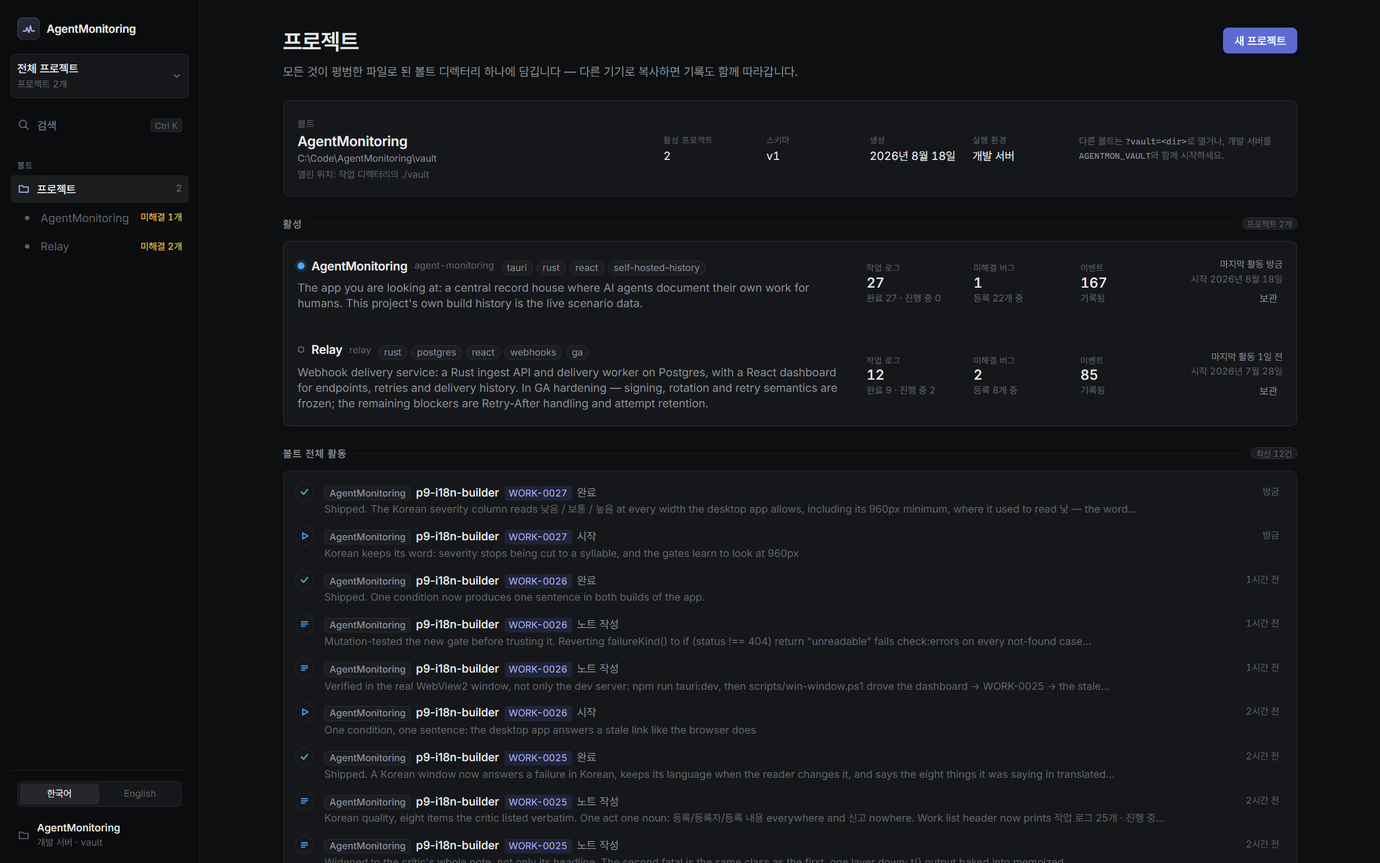
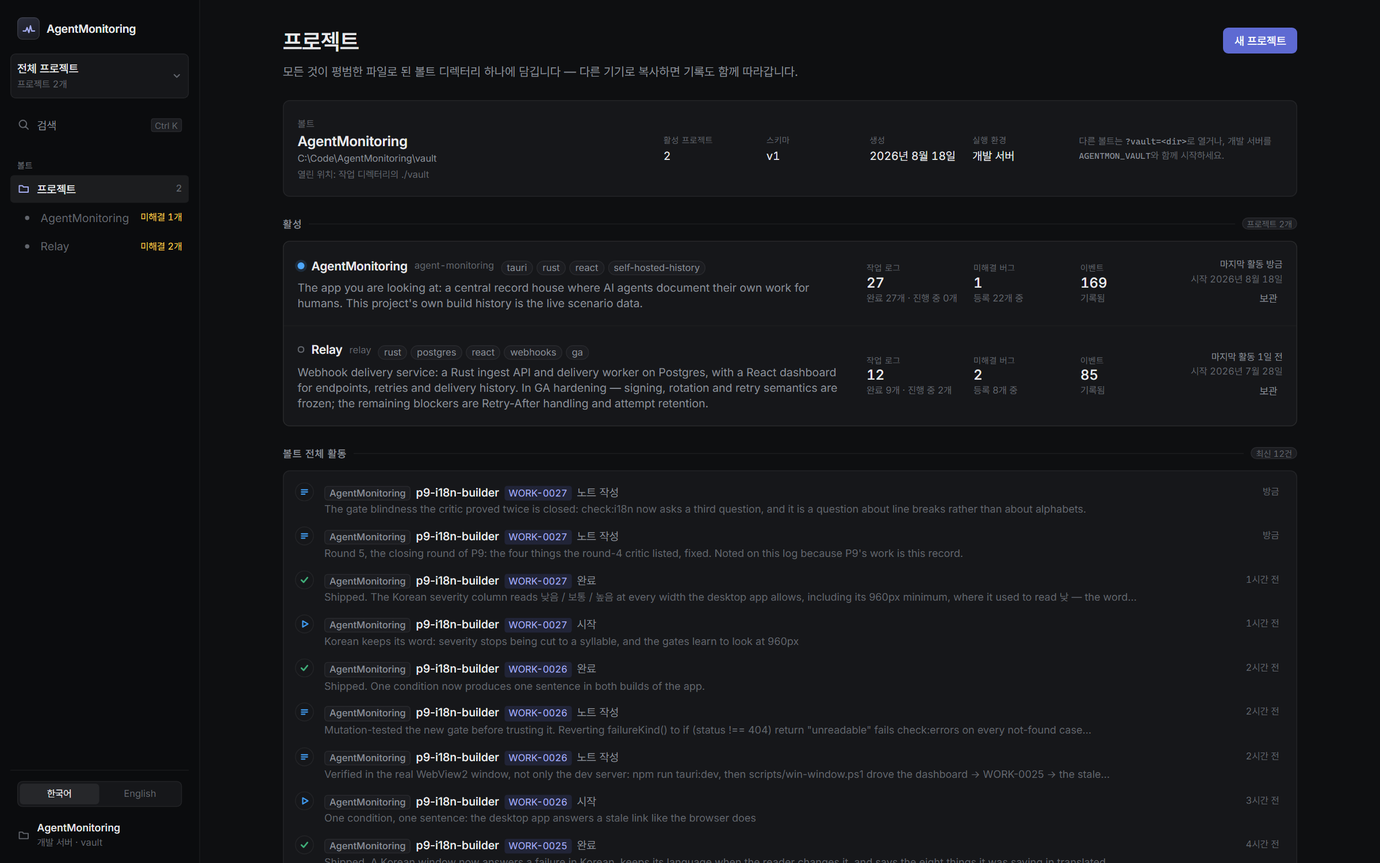
P9 round 5: a Korean number keeps its counter, and the 404 changes language with the window
Closing round — the four round-4 critic findings, and the gate that could not see the
first of them.

The vault bar's `.vault-bar-facts dd` carried `overflow-wrap: anywhere`, the rule that
belongs to the Latin path beside it. In Korean that licenses a break at any character, so
the 생성 cell printed "2026년 8월 18" with a lone "일" under it at eleven widths between
1190 and 1440 — 일 and 월 are 의존명사, bound nouns that cannot be orphaned from the number
they count. It is `word-break: keep-all; overflow-wrap: normal` now, the rule the headings
already carry; English still breaks "18 Aug 2026" at its spaces.

NotFound() called t() and subscribed to nothing, and its route element is built once in
App(), so a language change repainted the window around a 404 stuck in the old language
until the reader navigated away. It calls useLocale() like every other screen.

Korean: the 보조사 만 is attached in both slug sentences, which are now the same sentence
(한글 맞춤법 제41항); the same audit found `events.jsonl 에` twice and attached it too. The
empty bug chart says 이 차트는 비어 있는 편이 좋습니다 instead of the English clause carried
over word for word, the bug board subtitle drops its serial 그리고, and the project card
counts read 완료 27개 · 진행 중 0개 — the sidebar's convention, one counting rule per screen.

check:i18n gains a third question. Alphabet checks ask which language a string is in;
VOCABULARIES asks whether it is a word; neither can see a word cut in half by the line
[…]

diff --git a/progress/index.html b/progress/index.html
@@ -21,7 +21,7 @@
   .meta{color:#62666d;font-size:12.5px}
 </style></head><body>
 <h1>AgentMonitoring — live build progress</h1>
-<div class="meta">Auto-refreshes every 15s · 47 recorded rounds · generated from progress/rounds.jsonl</div>
+<div class="meta">Auto-refreshes every 15s · 48 recorded rounds · generated from progress/rounds.jsonl</div>
 <h2>Pieces</h2>
 <table><tr><th></th><th>Piece</th><th>Status</th><th>Rounds</th></tr>
 <tr><td class="id">P0</td><td>Foundation (scaffold, shell, screenshot infra)</td><td><span class="badge pass">PASS (round 1)</span></td><td class="num">2</td></tr>
@@ -118,6 +118,15 @@
 
   <figure><img src="shots/work-list.png" loading="lazy"/><figcaption>work-list.png</figcaption></figure></div>
 <h2>Round history (newest first)</h2>
+
+  <div class="round">
+    <div class="round-head">
+      <span class="badge fail">P9 · r4 · critic · fail</span>
+      <span class="ts">2026-08-19T20:09:51Z</span>
+    </div>
+    <div class="gap"><b>Biggest gap:</b> [i18n] The 볼트 bar breaks a Korean numeral away from its counter: `.vault-bar-facts dd` carries `overflow-wrap: anywhere` (src/styles/app.css:4584), which licenses a line break at *any* character, so on /projects the 생성 field prints “2026년 8월 18” with a lone “일” stranded on the line below it. Photographed in the real WebView2 window at a 1280px client area (npm run tauri:dev, driven with scripts/win-window.ps1 -Action resize), and reproduced in browser mode at viewport widths 1190, 1200 and 1360–1440 — I swept 960→1920 in 10px steps: 11 widths break, and at 1190/1200 the split moves one glyph left, to “2026년 8” ⏎ “월 18일”. English never splits a word in that same field at any of the 97 widths, because “18 Aug 2026” has spaces where Korean has 의존명사 — 일 and 월 are exactly the bound nouns Korean typesetting may not orphan from their number, so this is a defect only the Korean build has. The app already knows the rule: `word-break: keep-all` is set three times in tokens.css (:255, :276, :333) for headings. That dd holds a Korean date and two Korean words (개발 서버 / 데스크톱 앱) beside a Latin vault path, and was given the Latin-path rule for all four. Mutation-tested: adding `word-break: keep-all; overflow-wrap: normal` to that one rule empties the finding at 1440 and leaves the path wrapping as it did. Both gates are blind by construction. check:i18n was widened this round to exactly two viewports, 1600 and 960, and every breaking width lives strictly between them. check:clipping does walk 1440 and passes, because it measures overflow and overlap — a syllable that wrapped cleanly onto its own line is not clipped, and nothing in this repo asks whether the glyph that wrapped is still attached to the number it counts. That is the round-3 shape again: a gate that reads only the widths it was told about, and a Korean word paying for it.</div>
+    <div class="notes">FAIL on Korean typography, plus one toggle defect and one spacing error; everything else in this round is genuinely strong. My own instruments throughout: three dev servers of mine (5490 live vault read-only, 5491 on a throwaway empty vault, 5492 on a directory with no vault.json), my own Playwright walkers rather than the builder's gates, and the real desktop app. Live ./vault untouched — git diff -- vault empty, and check:vault reports “./vault is byte-identical to how this gate found it”. ROUND-3 FATAL — CLOSED. I re-measured the severity column myself across 19 widths × 5 screens × both languages: Korean prints 치명적 / 높음 / 보통 / 낮음 at 62px at every width from 640 to 1920, renders no .pill-abbr and wears no .has-abbr; English still shortens to C/H/M/L below 1060. 420 pills on 106 ko screens at 1600px and the same 106 at 960px: every one is an exact dictionary value, none is a fragment. Confirmed in the real window at a 960px client area too. SECOND FATAL — the toggle leaves one screen in the old language. src/App.tsx:114 NotFound() calls t() and subscribes to nothing: it reads neither useApp() nor useLocale(), and its element is the stable `&lt;Route path="*" element={&lt;NotFound /&gt;} /&gt;` object created once in App(), so a locale change — which repaints the window by changing the AppProvider context value — never reaches it. Pressing English on /nope/nope (also reached by /index.html, /dashboard, /p, /p/agent-monitoring/work/WORK-0026/extra) leaves “화면이 없습니다” and “이 주소에 해당하는 화면이 앱에 없습니다.” on an otherwise fully English window — sidebar “Projects / 1 unresolved / dev server · vault”, and the lit toggle's own tooltip now “Show this app in English”. The mirror is worse: on a Korean window the same screen keeps “Nothing here / That address does not match a screen in this app.” above a 프로젝트 sidebar. It survives until a navigation or a reload, so the reader who tried the control is the reader who meets it — round 1's defect exactly, on the one screen the widened gate walks only as a cold load: check-i18n.mjs presses the toggle on three screens (dashboard, work detail, bug detail) at :436-465 and loads 'not found' fresh at :392. THIRD — a detached 보조사. 한글 맞춤법 제41항 says a particle is written attached to the word before it, and ko.ts's own header says the same (“한 칸 띄운 조사는 그 규칙을 어긴 흔적이다”). Two strings break it with the same word: /p/Bad_Slug!!/bugs renders “쓸 수 없는 프로젝트 슬러그입니다 — Bad_Slug!!. 소문자와 숫자, -, _ 만 쓸 수 있습니다.” (ko.ts:511), and the create form's slug hint is “소문자, 숫자, - 또는 _ 만 쓸 수 있습니다.” (ko.ts:435). Both need “_만”. The file gets this right everywhere else — `vault.json`이, `${slug}` 프로젝트 — so it is a slip, not a policy. ENGLISH HUNT — clean. 106 ko screens of mine at 1600px and the same 106 at 960px (both projects, all 69 records, the dashboard at 7/30/all, the work list with every status tab and a no-match filter, the bug board with all four tabs plus a no-match filter, /projects, the create form empty / bad slug / taken slug, the palette empty / typed / no-match, five context menus, six failure screens, the empty-vault onboarding, the no-vault server, and the trouble banner raised by renaming vault.json out from under a live window), dumping every text node plus title / aria-label / placeholder / alt / value / aria-valuetext / aria-roledescription / aria-keyshortcuts / aria-description, document.title and html lang. 55 distinct Latin words survive my own exemption list and every one is vault data or a technical token — agent handles, project names and slugs, tags, ids, the vault path, UTC, Ctrl+K, refs, ID — plus “English” on the language toggle, which is the one place a picker must name the other language in its own. Window titles are Korean on every screen (“버그 · Relay · AgentMonitoring”), the chart plots' spoken summaries are Korean, the svg axis reads “8월 18일”, and the 24-hour strip's hour tooltips are Korean. KOREAN QUALITY — strong; the vocabulary law holds. 진행 중 is the only word for a running work log on every surface I could reach, 등록/등록자/등록 내용 everywhere and 신고 nowhere, 미해결 for the union and 열림 for the state. Register is consistent (-습니다 declaratives, -세요 imperatives — the Linear/Notion pairing, not a mix of 해요체 and 하십시오체). Dates and durations read natively (“8월 14일 (금)”, “1시간 6분”, “열린 지 17시간 39분”, “등록 38분 후”). Three things I would still change, none of them round-failing: “그릴 것이 없습니다. 이 차트에서는 그것이 좋은 상태입니다.” (ko.ts:632) is the English clause carried over word for word — 이 차트는 비어 있는 편이 좋습니다 is what a Korean writer says; the bug board subtitle's “…, 그리고 각각의 해결 내용.” (ko.ts:227) is the serial “and” that Korean lists do not take; and /projects prints “완료 27 · 진행 중 0” under its work figure (ko.ts:413) — bare numerals with no counter, 40px from “등록 22개 중”, against this file's own opening rule that a count carries its counter. FONT/RENDERING — clean apart from the gap above. Zero external requests on a cold load; 11 font files, all out of node_modules (inter-latin-wght-normal.woff2 plus ten PretendardVariable dynamic subsets), so the Hangul really is the bundled Pretendard — measured, “대시보드 진행 중 낮음” is 119.4px in Pretendard Variable and 140.8px in Malgun Gothic, and the live stack measures 120.7. No fallback mixing mid-sentence. .tabular keeps font-variant-numeric: tabular-nums and "tnum". Headings carry word-break: keep-all. npm run check:clipping is clean in ko and en at all seven widths. TOGGLE — one hole, named above. 16 screens × ko→en→reload→en-fresh→ko, diffing every text node and title/aria-label/placeholder against a fresh load of the same URL in the target language: 15 identical, /nope/nope stale in both directions. 12 more surfaces built after a toggle (palette empty and typed, the severity filter menu, the record and project context menus, the create form with a bad and with a taken slug, a copy toast, an expanded day, a scrolled record's contents rail, a no-match filter, a range switch) — all 24 comparisons identical, so round 1's memo defects are genuinely closed. No Hangul on an English screen and no English on a Korean one outside record content, on either side. DESKTOP — verified in the shipping window, not the dev server. npm run tauri:dev at the default 1440×900 client area: Korean throughout, footer “데스크톱 앱 · vault”, window title “AgentMonitoring · AgentMonitoring”. Pressing English repaints the window and writes {"locale":"en"} to %APPDATA%/com.agentmonitoring.app/settings.json; I killed the process and started it again — it came up in English with no flash of Korean — then pressed 한국어 and watched the file go back to "ko". Resized to 960 (the tauri.conf.json floor) and eight widths above it; 1280 is where the 생성 date orphans its 일. REGRESSIONS — all green, run by me: build (tsc + vite), smoke 371, urlstate 30, counts 822, live 15, keys 126, vault 32, i18n 149 screens × 2 widths × ko+en, clipping ko and en × 7 widths, errors 7 failures × both transports × both languages. Comprehension spot-check: WORK-0026 and BUG-0004 in ko mode print their authored English body, title, section headings and code spans untouched, with only the chrome around them in Korean.</div>
+  </div>
 
   <div class="round">
     <div class="round-head">

diff --git a/src/lib/i18n/ko.ts b/src/lib/i18n/ko.ts
@@ -224,7 +224,9 @@ export const ko: Dict = {
   /* -- bug board ------------------------------------------------------------ */
 
   "bugs.title": "버그",
-  "bugs.sub": "에이전트가 찾아낸 모든 결함, 지금 맡고 있는 담당자, 그리고 각각의 해결 내용.",
+  /* 한국어 나열에는 영어의 serial "and"에 해당하는 접속사가 없다 — 마지막 항목 앞의 "그리고"는
+     번역의 흔적이다. 쉼표로 잇고 명사로 끝낸다. */
+  "bugs.sub": "에이전트가 찾아낸 모든 결함, 지금 맡고 있는 담당자, 각각의 해결 내용.",
   "bugs.searchPlaceholder": "버그 검색",
   "bugs.searchLabel": "버그 검색",
   "bugs.unresolvedMeansTip": (label, means) => `${label} = ${means}`,
@@ -410,8 +412,10 @@ export const ko: Dict = {
   "proj.noneYet": "아직 없음",
   "proj.noneFiled": "등록 없음",
   "proj.ofFiled": (total) => `등록 ${total}개 중`,
+  /* 수는 단위 명사를 달고 다닌다(이 파일 머리말). 옆 칸이 "등록 22개 중"이고 사이드바가
+     "진행 중 2개"인데 여기만 "완료 27 · 진행 중 0"이면, 한 화면에서 세는 방식이 두 가지가 된다. */
   "proj.workNote": (done, inProgress, doneWord, inProgressWord) =>
-    `${doneWord} ${done} · ${inProgressWord} ${inProgress}`,
+    `${doneWord} ${done}개 · ${inProgressWord} ${inProgress}개`,
   "proj.lastActivity": "마지막 활동 ",
   "proj.startedOn": (date) => `시작 ${date}`,
   "proj.noActivity": "아직 활동 없음",
@@ -432,7 +436,11 @@ export const ko: Dict = {
   "proj.form.slug": "슬러그",
   "proj.form.slugPlaceholder": "checkout-rewrite",
   "proj.form.slugTaken": "이 슬러그를 쓰는 프로젝트가 볼트에 이미 있습니다.",
-  "proj.form.slugBad": "소문자, 숫자, - 또는 _ 만 쓸 수 있습니다.",
+  /* 슬러그 규칙을 말하는 문장은 이 파일에 둘 있다 — 여기(만들기 폼의 힌트)와 err.badSlug(주소가
+     틀렸을 때의 실패 화면). 같은 제약이므로 문장도 같다. 조사 `만`은 앞말에 붙여 쓴다(한글 맞춤법
+     제41항): `_ 만`이 아니라 `_만`이다. 이 칸은 마크를 해석하지 않는 .field-hint이므로 백틱 없이
+     쓰고, err.badSlug 쪽은 코드 조각으로 감싼다. */
+  "proj.form.slugBad": "소문자와 숫자, -, _만 쓸 수 있습니다.",
   "proj.form.slugHint": "projects/ 아래의 디렉터리 이름입니다. 만든 뒤에는 바꿀 수 없습니다.",
   "proj.form.description": "설명",
   "proj.form.descriptionPlaceholder":
@@ -508,8 +516,9 @@ export const ko: Dict = {
   /* 찾은 ≠ 찾으려던. 앞 문장이 "없습니다"인데 "찾은 파일 경로"라고 하면 *찾아낸* 경로가
      되어 뜻이 뒤집힌다 — 앱이 그 경로를 확인했지만 파일은 없었다는 뜻이어야 한다. */
   "err.expectedFile": (path) => ` 찾으려던 파일 경로: \`${path}\``,
+  /* 뒷문장은 proj.form.slugBad와 같은 문장이다(같은 제약, 같은 말). 조사 `만`은 앞말에 붙는다. */
   "err.badSlug": (slug) =>
-    `쓸 수 없는 프로젝트 슬러그입니다 — \`${slug}\`. 소문자와 숫자, \`-\`, \`_\` 만 쓸 수 있습니다.`,
+    `쓸 수 없는 프로젝트 슬러그입니다 — \`${slug}\`. 소문자와 숫자, \`-\`, \`_\`만 쓸 수 있습니다.`,
   "err.badId": (id, expected, example) =>
     `쓸 수 없는 ID입니다 — \`${id}\`. \`${expected}\` 형식이어야 합니다 (예: \`${example}\`).`,
   "err.noRoute": (path) => `이 주소를 처리하는 볼트 API 경로가 없습니다 — \`${path}\``,
@@ -629,7 +638,10 @@ export const ko: Dict = {
   "dash.chartWorkEmptyHint": (slug) =>
     `에이전트가 \`agentmon work start -p ${slug}\`를 실행하는 순간 이 차트가 그려집니다.`,
   "dash.chartBugsEmpty": "아직 등록된 버그가 없습니다",
-  "dash.chartBugsEmptyHint": "그릴 것이 없습니다. 이 차트에서는 그것이 좋은 상태입니다.",
+  /* 영어의 "Nothing to plot, which on this chart is the good state."를 절 단위로 옮기면
+     "그릴 것이 없습니다. 이 차트에서는 그것이 좋은 상태입니다."가 되는데, 앞 문장을 대명사로
+     받는 이 말투는 한국어 UI의 말이 아니다. 뜻만 남기고 한국어 문장으로 다시 쓴다. */
+  "dash.chartBugsEmptyHint": "이 차트는 비어 있는 편이 좋습니다.",
   "dash.seriesStarted": "시작",
   "dash.seriesFiled": "등록",
   "dash.nounWorkLogs": "작업 로그",
@@ -637,8 +649,11 @@ export const ko: Dict = {
 
   "dash.agentsCard": "에이전트",
   "dash.agentsEmpty": "이 기간에 기록을 남긴 에이전트가 없습니다",
+  /* `events.jsonl에` — 파일 이름은 고정 문자열이고 `에`는 형태가 하나뿐인 조사이므로 이 파일의
+     예외 규칙(위 err.* 머리말)에 해당한다. 예외라도 조사는 붙여 쓴다: `events.jsonl 에`처럼 띄우면
+     `_ 만`과 같은 흔적이 된다. 같은 문장이 dash.activityEmptyHint에도 있다. */
   "dash.agentsEmptyHint":
-    "위에서 기간을 넓히거나 볼트를 확인하세요. CLI로 무언가 바꿀 때마다 events.jsonl 에 한 줄이 추가됩니다.",
+    "위에서 기간을 넓히거나 볼트를 확인하세요. CLI로 무언가 바꿀 때마다 events.jsonl에 한 줄이 추가됩니다.",
   "dash.colAgent": "에이전트",
   "dash.colActivity": "활동",
   "dash.colDone": "완료",
@@ -664,7 +679,7 @@ export const ko: Dict = {
   "dash.collapseAll": "모두 접기",
   "dash.activityEmpty": "이 기간에 기록된 것이 없습니다",
   "dash.activityEmptyHint":
-    "CLI로 무언가 바꿀 때마다 events.jsonl 에 한 줄이 추가됩니다. 위에서 기간을 넓히면 이전 기록도 볼 수 있습니다.",
+    "CLI로 무언가 바꿀 때마다 events.jsonl에 한 줄이 추가됩니다. 위에서 기간을 넓히면 이전 기록도 볼 수 있습니다.",
   "dash.dayMix": (events, parts) => `이벤트 ${events}건 — ${parts}`,
   "dash.showOther": (n, day) => `${day} 나머지 ${n}건 보기`,
   "dash.today": "오늘",

diff --git a/src/App.tsx b/src/App.tsx
@@ -7,7 +7,7 @@ import { Sidebar } from "./components/Sidebar";
 import { InlineCode, plainMarks, Skeleton } from "./components/ui";
 import { vaultErrorMessage } from "./lib/api";
 import { formatDateTimeUtc } from "./lib/format";
-import { t } from "./lib/i18n";
+import { t, useLocale } from "./lib/i18n";
 import { useWindowTitle } from "./lib/useWindowTitle";
 import { DashboardPage } from "./pages/DashboardPage";
 import { WorkListPage } from "./pages/WorkListPage";
@@ -111,7 +111,22 @@ function VaultTroubleBar() {
   );
 }
 
+/**
+ * The screen for an address that is not one — and the only screen that has to say so itself.
+ *
+ * It subscribes to the language, which every other screen gets for free. A repaint reaches a
+ * component two ways: its parent re-renders it, or it reads something that changed. Neither
+ * happened here. `<Route path="*" element={<NotFound />} />` below is built once, when App()
+ * runs, so the element object never changes; and changing the language re-renders AppProvider
+ * around the *same* children, which React skips — except for the components that consume the
+ * context (`useApp`) or the locale store (`useLocale`). Every other route element does one of
+ * those for its data. This one has no data: it called `t()` twice and read nothing, so
+ * pressing English on /nope left two Korean sentences in an English window — and the mirror —
+ * until the reader navigated away. One `useLocale()` is the subscription, and the gate now
+ * presses the toggle on this screen instead of only loading it (scripts/check-i18n.mjs).
+ */
 function NotFound() {
+  useLocale();
   return (
     <div className="page">
       <div className="page-head">

diff --git a/src/styles/app.css b/src/styles/app.css
@@ -4577,11 +4577,22 @@ a.feed-row:hover .feed-ref {
   color: var(--text-tertiary);
 }
 
+/* These four cells hold app words, not the path — the path is `.vault-bar-path` above, which
+   keeps its own `anywhere`. They were given the path's rule anyway, and in Korean that
+   licenses a break at *any* character: the 생성 cell printed “2026년 8월 18” with a lone “일”
+   on the line below at eleven widths between 1190 and 1440, and one glyph further left at
+   1190/1200 (“2026년 8” ⏎ “월 18일”). 일 and 월 are 의존명사 — bound nouns that cannot be
+   orphaned from the number they count — so `keep-all` is the rule Korean needs here, the same
+   one the headings in tokens.css already carry. English is unaffected: “18 Aug 2026” breaks at
+   its spaces, which `keep-all` leaves alone. Nothing in these cells is an unbreakable Latin
+   token, so nothing needs the escape hatch (gated: the word-integrity sweep in
+   scripts/check-i18n.mjs walks nine widths from 960 to 1600). */
 .vault-bar-facts dd {
   margin: 2px 0 0;
   font-size: var(--text-base);
   color: var(--text-primary);
-  overflow-wrap: anywhere;
+  word-break: keep-all;
+  overflow-wrap: normal;
 }
 
 .vault-bar-actions {

diff --git a/vault/projects/agent-monitoring/worklogs/WORK-0027.md b/vault/projects/agent-monitoring/worklogs/WORK-0027.md
@@ -89,6 +89,36 @@ Measured the crossover before and after: at viewport 960 / 1000 / 1040 / 1056 / 
 board printed 낮 and at 1060 it printed 낮음; it now prints 낮음 at all six, and English
 still prints L below 1060 and Low above it.
 
+## Updates
+
+### 2026-08-19T20:42:47Z
+
+Round 5, the closing round of P9: the four things the round-4 critic listed, fixed. Noted on this log because P9's work is this record.
+
+FATAL, the Korean typography one. `.vault-bar-facts dd` (app.css:4584) carried `overflow-wrap: anywhere`. That rule belongs to the Latin vault path, which has its own — `.vault-bar-path`, two rules above — and these four cells hold app words: a count, a schema version, a date, and 개발 서버 / 데스크톱 앱. In Korean `anywhere` licenses a break at any character, so the 생성 cell printed `2026년 8월 18` with a lone `일` beneath it at eleven widths between 1190 and 1440, and one glyph further left at 1190/1200 (`2026년 8` then `월 18일`). 일 and 월 are 의존명사: bound nouns that cannot be orphaned from the number they count, which is why English never showed this — `18 Aug 2026` breaks at spaces that were always there. The rule is now `word-break: keep-all; overflow-wrap: normal`, the same `keep-all` the headings in tokens.css already carry.
+
+FATAL, the toggle one. `NotFound()` called `t()` and subscribed to nothing. Its route element is built once in `App()`, and changing the language re-renders `AppProvider` around the same children — which React skips except for components that read the context or the locale store. So every other screen repainted and the 404 kept its old language until the reader navigated away: English sidebar over `화면이 없습니다`, and the mirror. It calls `useLocale()` now, which is the subscription every other screen gets for free through `useApp()`.
+
+한글 맞춤법 제41항. `_ 만` in two strings — err.badSlug and proj.form.slugBad — is a 보조사 written detached, which this file's own header calls the trace of a broken rule. Both now read the same sentence: `소문자와 숫자, -, _만 쓸 수 있습니다.` (the failure screen wraps the three tokens in code marks; the form hint does not render marks). My own sweep of ko.ts for the same defect found one more, `events.jsonl 에`, in dash.agentsEmptyHint and dash.activityEmptyHint; 에 is the single-form particle this file already allows after a fixed token, and it is now attached like `${dir}에` two hundred lines above it.
+
+Korean quality, the critic's three. dash.chartBugsEmptyHint was `그릴 것이 없습니다. 이 차트에서는 그것이 좋은 상태입니다.` — the English clause carried over with its pronoun; it now reads `이 차트는 비어 있는 편이 좋습니다.` bugs.sub dropped the serial `그리고`, which Korean lists do not take. proj.workNote printed `완료 27 · 진행 중 0`, bare numerals 40px from `등록 22개 중` and against this file's opening rule; it prints `완료 27개 · 진행 중 0개` now, which is the sidebar's `진행 중 2개` convention.
+
+### 2026-08-19T20:42:51Z
+
+The gate blindness the critic proved twice is closed: check:i18n now asks a third question, and it is a question about line breaks rather than about alphabets.
+
+Why a third question was needed. The alphabet walk asks which language a string is in; VOCABULARIES asks whether it is a word; check:clipping measures overflow. A syllable that wrapped cleanly onto the next line is in the right language, is a dictionary value, and overflows nothing — so all three passed while the date came apart. And the two widths this gate read, 1600 and 960, are exactly the two the defect avoided: every breaking width lay strictly between them.
+
+The sweep. Nine widths — 960, 1060, 1190, 1200, 1280, 1360, 1440, 1520, 1600 — over the wrap-sensitive Korean screens (the vault bar and the project cards on /projects, the dashboard's facts, and the two boards). Every text node outside the author containers is flattened per block container, every `\d+(년|개월|월|일|시간|분|초|주|개|건|명|번)` pair is found in that flat string, and a Range is laid over the pair as rendered and asked for its client rects. Two rects on two lines is a break inside the word, whatever CSS allowed it. 36 readings per run, six seconds; `--sweep-only` and `--widths` reproduce one finding without the 150-screen walk.
+
+Mutation-tested, both new assertions, before trusting either. Putting `overflow-wrap: anywhere` back on that dd fails the sweep at 1190, 1200, 1360 and 1440 — the critic's own widths — and exits 1; the fix empties it. Removing `useLocale()` from NotFound() fails the ko run with two findings on `not found, switched to ko in place`, which is the screen this gate now reaches by pressing the toggle rather than by loading it cold.
+
+Reproduced before fixing, at the critic's widths, with my own instrument: sweeping 960 to 1920 in 10px steps on /projects found the split at exactly 11 widths, 1190/1200 and 1360-1440, matching the critic's count. After the fix, 97 widths clean, and the date breaks only at its spaces (`2026년` / `8월 18일` at 1190, `2026년 8월` / `18일` at 1440). A wider audit — 13 screens including both projects' record details, 11 widths to 1920, with 쪽/자/번 added to the counter list — found nothing else, so no other value cell carries the same rule.
+
+Verified in the shipping window, not only the dev server. `npm run tauri:dev`, `scripts/win-window.ps1 -Action resize` to a 1280 client area — the configuration the critic photographed — and /projects reads `2026년 8월` / `18일`, the counter with its number; at 1440 it is one line. The project cards there read `완료 27개 · 진행 중 0개` beside `등록 22개 중`.
+
+Gates, all run after the last edit: build (tsc + vite), i18n ko + en 150 screens each plus 36 sweep readings, clipping ko + en at 7 widths, smoke 371, keys 126, urlstate 30, counts 822, live 15, errors 7, vault 32 (./vault byte-identical), mcp 87, cargo test 83. The empty-chart hint was read in a throwaway vault under %TEMP%, never in this one.
+
 ## Outcome
 
 Shipped. The Korean severity column reads 낮음 / 보통 / 높음 at every width the desktop app allows, including its 960px minimum, where it used to read 낮 — the word for daytime — under a legend saying 낮음. The short form is a dictionary entry per language now (word.sevAbbr.*: C/H/M/L in en, empty in ko), not label.charAt(0), and the narrow column takes its pill's width so English still lands on 38px while Korean spends 62px it already fits inside. Verified in the real WebView2 window resized to a 960px client area, in both languages, with the toggle writing through to settings.json. check:i18n now walks the reflowing screens at 960px as well as 1600px and asserts the three app-authored vocabularies print exact dictionary values, plus a static refusal of any Hangul short form; both halves were mutation-tested (restoring charAt(0) fails with 30 findings on bugs @960, typing 낮 into the dictionary fails the static check). Gates: build, smoke 370, keys 126, vault 32, clipping ko+en at 7 widths, i18n ko+en 147 screens each, urlstate 30, counts 822, live 15, errors 7, cargo test.
